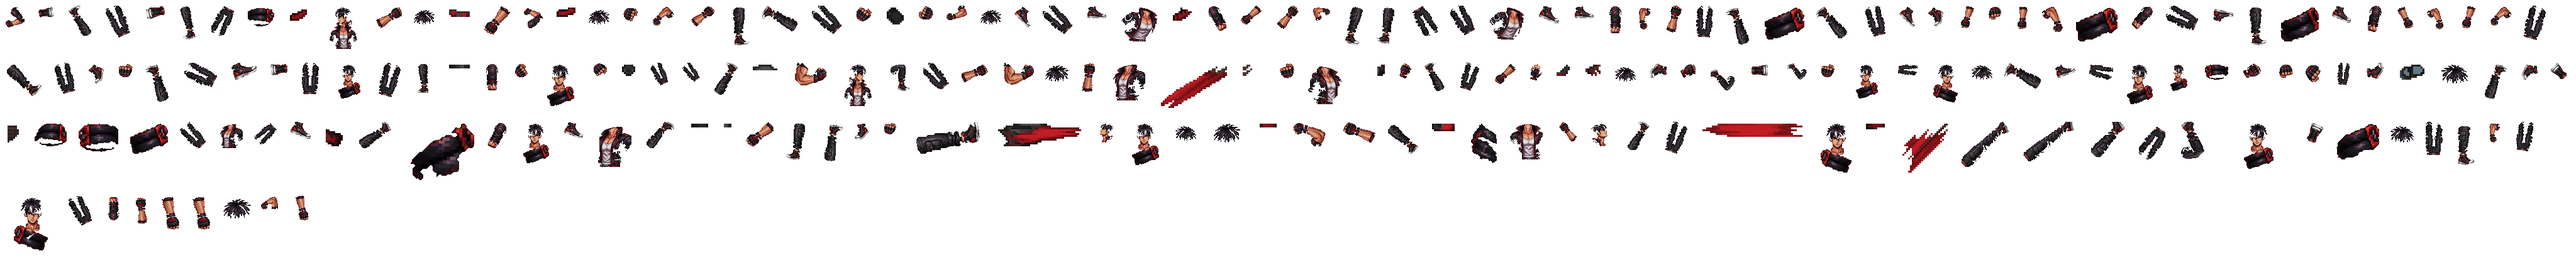
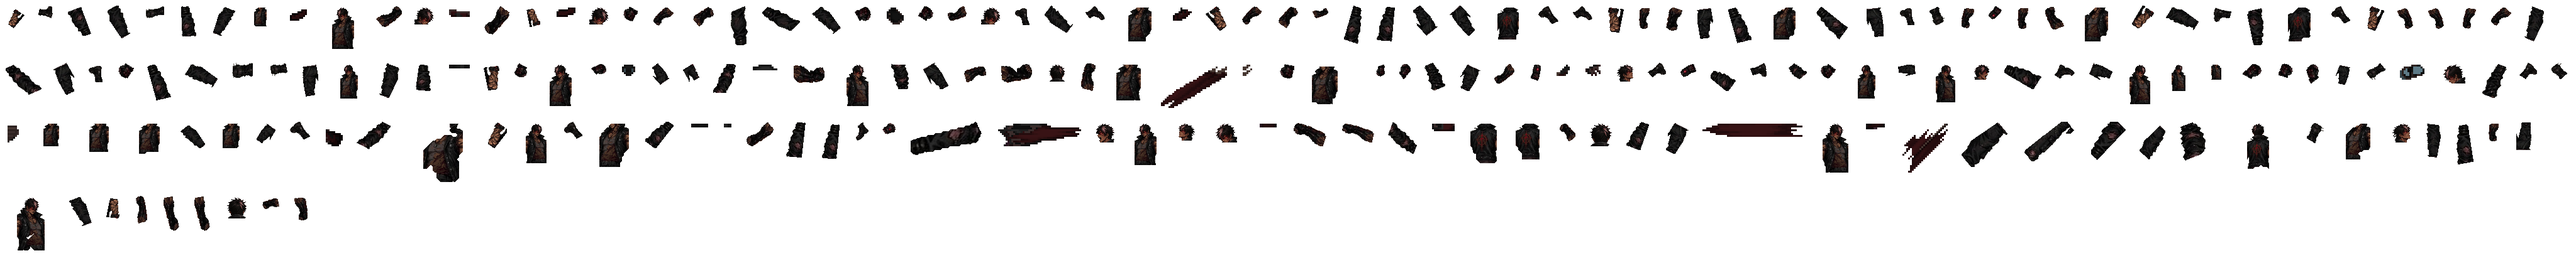
Rayder clon sin mangas segun boceto final; Rayder usa solo frames sin mangas
- Despiece nuevo del clon (tools/clone_sin_mangas_pieces.py): 8 cabezas de Canva
  desde el boceto y torsos/brazos desnudos/guanteletes/pantalon/botas recortados
  de la hoja final del personaje. La formula KF arma el rig con estas piezas.
- Piel de los brazos al tono del boceto, cinturon en cuero negro, muñequera como puño.
- rayder_kf: todos los clips usan la version sin mangas (196 frames vs 108 con chaqueta).
- Hojas fuente excluidas del APK.

Claude-Session: https://claude.ai/code/session_01XP5VBvnZXwo8cTSXFJPSmD

diff --git a/tools/build_kf_clone_rig_canva.py b/tools/build_kf_clone_rig_canva.py
@@ -50,7 +50,7 @@ for g, ids in {
     "sleeve": [0, 14, 33, 44, 59, 65, 84, 153, 201],
     "forearm": [10, 13, 18, 19, 26, 34, 35, 36, 45, 46, 54, 56, 57, 66, 67, 68, 69, 93, 97, 98, 100, 111, 160, 172,
                 173, 178, 197, 202, 203, 204, 206, 207],
-    "fist": [17, 23, 25, 55, 74, 85, 87, 104, 108, 112, 117, 121, 132, 133, 134, 164],
+    "fist": [17, 23, 25, 55, 74, 85, 87, 104, 107, 108, 112, 117, 121, 132, 133, 134, 164],
     "thigh": [3, 6, 22, 29, 39, 40, 47, 51, 60, 70, 72, 76, 79, 81, 89, 90, 96, 110, 123, 128, 135, 146, 148, 181,
               186, 187, 189, 195, 198, 200],
     "shin": [2, 5, 20, 21, 37, 38, 48, 50, 62, 71, 75, 82, 91, 95, 109, 118, 120, 126, 139, 151, 157, 161, 162, 165,
@@ -121,16 +121,36 @@ def cut_pieces(path, groups):
     return out
 
 
-def recolor_red(px):
-    """Colores del KF -> paleta del clon: amarillos/naranjas a rojo, grises a negro."""
+def recolor_red(px, leather=False):
+    """Colores del KF -> paleta del clon: amarillos/naranjas a rojo, grises a negro.
+    leather: cinturon de cuero negro (boceto sin mangas), con un brillo rojo tenue."""
     out = px.copy()
     h, s_, v = hsv(px.astype(float))
     a = px[..., 3] > 0
     warm = a & (s_ > 0.35) & ((h < 70) | (h > 320))
     gray = a & (s_ < 0.25) & (v > 0.15)
+    if leather:
+        out[warm, 0] = v[warm] * 58; out[warm, 1] = v[warm] * 20; out[warm, 2] = v[warm] * 22
+        out[gray, :3] = (np.stack([v[gray]] * 3, -1) * 255 * 0.16).astype(np.uint8)
+        return out
     out[warm, 0] = np.clip(v[warm] * 200, 0, 255); out[warm, 1] = (v[warm] * 30); out[warm, 2] = (v[warm] * 38)
     out[gray, :3] = (np.stack([v[gray]] * 3, -1) * 255 * 0.32).astype(np.uint8)
     return out
+
+
+def lift_skin(p, k=1.45):
+    """Brazos desnudos: la hoja es muy oscura y rojiza. La piel pasa al cafe de las
+    cabezas (boceto) y las cicatrices quedan rojo oscuro; el negro no se toca."""
+    q = p.copy().astype(float)
+    rgb = q[..., :3]
+    L = rgb.mean(-1)
+    skin = (rgb[..., 0] > rgb[..., 2] + 12) & (rgb.max(-1) > 45)
+    scar = skin & (rgb[..., 0] > rgb[..., 1] * 1.9) & (rgb[..., 0] > 90)
+    tone = np.stack([L * 1.55, L * 1.05, L * 0.8], -1) * (k / 1.45)
+    rgb[skin & ~scar] = np.clip(tone[skin & ~scar], 0, 235)
+    rgb[scar] = np.clip(rgb[scar] * np.array([1.0, 0.55, 0.55]), 0, 255)
+    q[..., :3] = rgb
+    return q.astype(np.uint8)
 
 
 def axis(mask):
@@ -141,21 +161,35 @@ def axis(mask):
     return math.degrees(math.atan2(v[1, 1], v[0, 1])), 4 * math.sqrt(max(w[1], 1e-3)), (cx, cy)
 
 
+def axis2(mask):
+    """Angulo, largo y grosor (ejes principales) de una silueta."""
+    ys, xs = np.nonzero(mask)
+    if len(xs) < 3: return 0.0, 1.0, 1.0, (mask.shape[1] / 2, mask.shape[0] / 2)
+    cx, cy = xs.mean(), ys.mean()
+    w, v = np.linalg.eigh(np.cov(np.vstack([xs - cx, ys - cy])))
+    return (math.degrees(math.atan2(v[1, 1], v[0, 1])), 4 * math.sqrt(max(w[1], 1e-3)),
+            4 * math.sqrt(max(w[0], 1e-3)), (cx, cy))
+
+
 def place(piece, mask, variant, grow):
-    """Pieza del clon orientada y escalada para cubrir `mask` (ya a RES)."""
+    """Pieza del clon con el LARGO y el GROSOR de la pieza del KF (brazos y
+    piernas finos como los del KF, sin hinchar): se alinea su eje con el
+    horizontal, se escala por separado largo/grosor (con un limite para no
+    deformar el dibujo) y se gira al angulo de la pieza del KF."""
     H, W = mask.shape
-    a_t, len_t, c_t = axis(mask)
-    pm = piece[..., 3] > 60
-    a_s, len_s, _ = axis(pm)
+    a_t, len_t, thk_t, c_t = axis2(mask)
     img = Image.fromarray(piece, "RGBA")
-    if variant & 1: img = img.transpose(Image.Transpose.FLIP_LEFT_RIGHT); a_s = 180 - a_s
-    k = 0.5 * len_t / max(len_s, 1) + 0.5 * math.sqrt(mask.sum() / max(1, pm.sum()))
-    k *= grow
-    img = img.resize((max(1, round(img.width * k)), max(1, round(img.height * k))), Image.LANCZOS)
-    img = img.rotate(-(a_t - a_s + (180 if variant & 2 else 0)), resample=Image.BICUBIC, expand=True)
+    if variant & 1: img = img.transpose(Image.Transpose.FLIP_LEFT_RIGHT)
+    a_s, len_s, thk_s, _ = axis2(np.array(img)[..., 3] > 60)
+    img = img.rotate(a_s, resample=Image.BICUBIC, expand=True)          # eje mayor horizontal
+    kx = len_t / max(len_s, 1) * grow
+    ky = thk_t / max(thk_s, 1) * grow
+    ky = min(max(ky, kx * 0.7), kx * 1.35)                               # deformacion maxima
+    img = img.resize((max(1, round(img.width * kx)), max(1, round(img.height * ky))), Image.LANCZOS)
+    img = img.rotate(-(a_t + (180 if variant & 2 else 0)), resample=Image.BICUBIC, expand=True)
     arr = np.array(img)
     arr[..., 3] = np.where(arr[..., 3] > 110, 255, 0)
-    _, _, c2 = axis(arr[..., 3] > 0)
+    _, _, _, c2 = axis2(arr[..., 3] > 0)
     out = np.zeros((H + 2 * PAD, W + 2 * PAD, 4), np.uint8)
     ox, oy = round(c_t[0] + PAD - c2[0]), round(c_t[1] + PAD - c2[1])
     sy0, sx0, dy0, dx0 = max(0, -oy), max(0, -ox), max(0, oy), max(0, ox)
@@ -198,18 +232,27 @@ def score(cand, kf, mask):
 
 
 def main():
-    heads = ordered_pieces(CANVA / "cabezas.png", 2)        # 8: perfil, 3/4, frente, 3/4 abajo | arriba, grito, nuca, abajo
-    arms = ordered_pieces(CANVA / "brazos.png", 3)          # 4 mangas | 4 antebrazos | 4 puños/manos
-    legs = ordered_pieces(CANVA / "piernas.png", 3)         # muslos | piernas con bota | botas
-    torsos = ordered_pieces(CANVA / "torsos.png", 2)        # frente, lado, 3/4 | espalda, inclinado adelante, atras
-    base = ordered_pieces(CANVA / "piezas_base.png", 4)
-    lib = {"head": heads[:], "torso": torsos[:], "sleeve": arms[0:4], "forearm": arms[4:8], "fist": arms[8:12],
-           "thigh": legs[0:3], "shin": legs[3:6],
-           # sin la bota vista desde la suela (casi toda blanca): se ve como una mancha gris
-           "boot": [b for b in legs[6:] if b[..., :3][b[..., 3] > 0].mean() < 110]}
-    # cabeza + torso: frente, perfil, 3/4, nuca, inclinado (perfil), atras (perfil arriba)
-    pair = [(2, 0), (0, 1), (1, 2), (6, 3), (0, 4), (4, 5), (5, 4), (3, 2)]
+    if "--chaqueta" in sys.argv:   # despiece anterior (chaqueta con mangas)
+        heads = ordered_pieces(CANVA / "cabezas.png", 2)        # 8: perfil, 3/4, frente, 3/4 abajo | arriba, grito, nuca, abajo
+        arms = ordered_pieces(CANVA / "brazos.png", 3)          # 4 mangas | 4 antebrazos | 4 puños/manos
+        legs = ordered_pieces(CANVA / "piernas.png", 3)         # muslos | piernas con bota | botas
+        torsos = ordered_pieces(CANVA / "torsos.png", 2)        # frente, lado, 3/4 | espalda, inclinado adelante, atras
+        lib = {"head": heads[:], "torso": torsos[:], "sleeve": arms[0:4], "forearm": arms[4:8], "fist": arms[8:12],
+               "thigh": legs[0:3], "shin": legs[3:6],
+               # sin la bota vista desde la suela (casi toda blanca): se ve como una mancha gris
+               "boot": [b for b in legs[6:] if b[..., :3][b[..., 3] > 0].mean() < 110]}
+        pair = [(2, 0), (0, 1), (1, 2), (6, 3), (0, 4), (4, 5), (5, 4), (3, 2)]
+    else:   # boceto final: chaleco sin mangas, brazos desnudos, guanteletes (ver clone_sin_mangas_pieces.py)
+        from clone_sin_mangas_pieces import library
+        lib = library()
+        lib["sleeve"] = [lift_skin(p) for p in lib["sleeve"]]
+        lib["forearm"] = [lift_skin(p, 1.3) for p in lib["forearm"]]
+        lib["torso"] = [lift_skin(p, 1.2) for p in lib["torso"]]
+        heads, torsos = lib["head"], lib["torso"]
+        # cabezas: perfil, 3/4, frente, 3/4 abajo | arriba, grito, nuca, abajo; torsos: frente, espalda, lado
+        pair = [(2, 0), (1, 0), (0, 2), (6, 1), (4, 2), (5, 2), (7, 2), (3, 0)]
     lib["torso_head"] = [stack(heads[h], torsos[t]) for h, t in pair if h < len(heads) and t < len(torsos)]
+    base = []
     print({g: len(v) for g, v in lib.items()}, "base", len(base))
     group_of = {g: [g] for g in lib}
     sprites, images = load(ROOT / "apk_reference/king_fighter_iii/bin/animation.bin")
@@ -223,7 +266,7 @@ def main():
         cands_src = [p for g in group_of.get(cls, []) for p in lib.get(g, [])]
         if not cands_src:   # cinturones, cintas y efectos: la pieza del KF con colores del clon
             t = np.zeros((mask.shape[0] + 2 * PAD, mask.shape[1] + 2 * PAD, 4), np.uint8)
-            t[PAD:PAD + mask.shape[0], PAD:PAD + mask.shape[1]] = recolor_red(big)
+            t[PAD:PAD + mask.shape[0], PAD:PAD + mask.shape[1]] = recolor_red(big, leather="--chaqueta" not in sys.argv)
             tiles.append(t); continue
         best, bs = None, -9
         upright = cls in ("head", "torso_head", "torso")

diff --git a/tools/clone_sin_mangas_pieces.py b/tools/clone_sin_mangas_pieces.py
@@ -1,0 +1,100 @@
+#!/usr/bin/env python3
+"""Despiece del Rayder clon SIN MANGAS (boceto final del jefe).
+
+Fuentes:
+  - kf_clone/canva_sin_mangas/cabezas.png: 8 cabezas generadas con Canva desde el
+    boceto (fondo negro); se recorta solo cabeza y cuello (sin el cuello del chaleco).
+  - source/hoja_rayder_clone_final.jpg: hoja del personaje (fondo crema). De las
+    vistas de frente, lado y espalda y del desglose de vestuario salen torsos
+    (chaleco + camiseta rota), brazos desnudos, guanteletes, pantalon y botas.
+
+Devuelve piezas RGBA (fondo transparente) por parte del cuerpo; las usa
+build_kf_clone_rig_canva.py con la formula del heroe KF.
+"""
+from pathlib import Path
+import numpy as np
+from PIL import Image
+from scipy import ndimage
+
+ROOT = Path(__file__).resolve().parents[1]
+SHEET = ROOT / "assets/characters/rayder/source/hoja_rayder_clone_final.jpg"
+HEADS = ROOT / "assets/characters/rayder/kf_clone/canva_sin_mangas/cabezas.png"
+UP = 3   # la hoja es chica (1024 px): se amplia antes de recortar
+
+# (x0, y0, x1, y1) en la hoja original
+BOXES = {
+    "torso": [(86, 96, 160, 204), (290, 90, 366, 204), (205, 92, 262, 204)],
+    "sleeve": [(52, 112, 94, 192), (146, 112, 190, 200), (360, 115, 399, 196), (264, 115, 296, 196)],
+    "forearm": [(366, 180, 401, 246), (262, 184, 293, 246)],
+    "fist": [(687, 217, 750, 310), (146, 210, 184, 248), (892, 255, 923, 313)],
+    "thigh": [(60, 198, 120, 300), (118, 198, 168, 300), (272, 200, 322, 300), (322, 200, 372, 300)],
+    "shin": [(60, 288, 120, 352), (118, 288, 168, 352), (272, 290, 322, 352), (322, 290, 372, 352)],
+    "boot": [(727, 235, 818, 320), (38, 340, 96, 392), (270, 338, 322, 390), (352, 338, 398, 390)],
+}
+
+
+def _cut_cream(img, box):
+    x0, y0, x1, y1 = box
+    px = np.array(img.crop(box).resize(((x1 - x0) * UP, (y1 - y0) * UP), Image.LANCZOS)).astype(int)
+    bg = np.array([238, 233, 224])
+    dist = np.abs(px - bg).sum(-1)
+    lum = px.mean(-1)
+    fg = (dist > 70) & ~((lum > 125) & (px.max(-1) - px.min(-1) < 34))   # fuera crema y sombras grises claras
+    fg = ndimage.binary_opening(fg, iterations=1)
+    fg = ndimage.binary_fill_holes(ndimage.binary_closing(fg, iterations=2))
+    lab, n = ndimage.label(fg)
+    if n == 0: return None
+    sizes = ndimage.sum(fg, lab, range(1, n + 1))
+    keep = np.isin(lab, [i + 1 for i, s in enumerate(sizes) if s >= sizes.max() * 0.25])
+    ys, xs = np.nonzero(keep)
+    sl = (slice(ys.min(), ys.max() + 1), slice(xs.min(), xs.max() + 1))
+    return np.dstack([px[sl].astype(np.uint8), (keep[sl] * 255).astype(np.uint8)])
+
+
+def heads():
+    """8 cabezas en una grilla de 2 filas x 4 columnas."""
+    img = np.array(Image.open(HEADS).convert("RGB")).astype(int)
+    H, W = img.shape[:2]
+    out = []
+    for r in range(2):
+        for c in range(4):
+            cell = img[r * H // 2:(r + 1) * H // 2, c * W // 4:(c + 1) * W // 4]
+            fg = ndimage.binary_fill_holes(ndimage.binary_closing(cell.max(-1) > 9, iterations=4))
+            lab, n = ndimage.label(fg)
+            if n == 0: continue
+            sizes = ndimage.sum(fg, lab, range(1, n + 1))
+            m = np.isin(lab, [i + 1 for i, s in enumerate(sizes) if s > 3000])
+            ys, xs = np.nonzero(m)
+            y0, y1 = ys.min(), ys.max() + 1
+            y1 = y0 + int((y1 - y0) * 0.78)   # cabeza y cuello, sin el cuello del chaleco ni hombros
+            m = m[y0:y1]
+            xs = np.nonzero(m.any(0))[0]
+            sl = (slice(y0, y1), slice(xs.min(), xs.max() + 1))
+            out.append(np.dstack([cell[sl].astype(np.uint8), (m[:, sl[1]] * 255).astype(np.uint8)]))
+    return out
+
+
+def library():
+    img = Image.open(SHEET).convert("RGB")
+    lib = {g: [p for p in (_cut_cream(img, b) for b in boxes) if p is not None] for g, boxes in BOXES.items()}
+    lib["head"] = heads()
+    return lib
+
+
+if __name__ == "__main__":
+    import sys
+    lib = library()
+    out = Path(sys.argv[1]) if len(sys.argv) > 1 else ROOT / "despiece_sin_mangas.png"
+    rows = []
+    for g, ps in lib.items():
+        hgt = 160
+        tiles = [Image.fromarray(p, "RGBA").resize((max(1, p.shape[1] * hgt // p.shape[0]), hgt)) for p in ps]
+        row = Image.new("RGBA", (sum(t.width + 8 for t in tiles) + 8, hgt + 8), (70, 70, 90, 255))
+        x = 4
+        for t in tiles: row.paste(t, (x, 4), t); x += t.width + 8
+        rows.append(row); print(g, len(ps))
+    W = max(r.width for r in rows)
+    sheet = Image.new("RGBA", (W, sum(r.height for r in rows)), (70, 70, 90, 255))
+    y = 0
+    for r in rows: sheet.paste(r, (0, y)); y += r.height
+    sheet.save(out)
